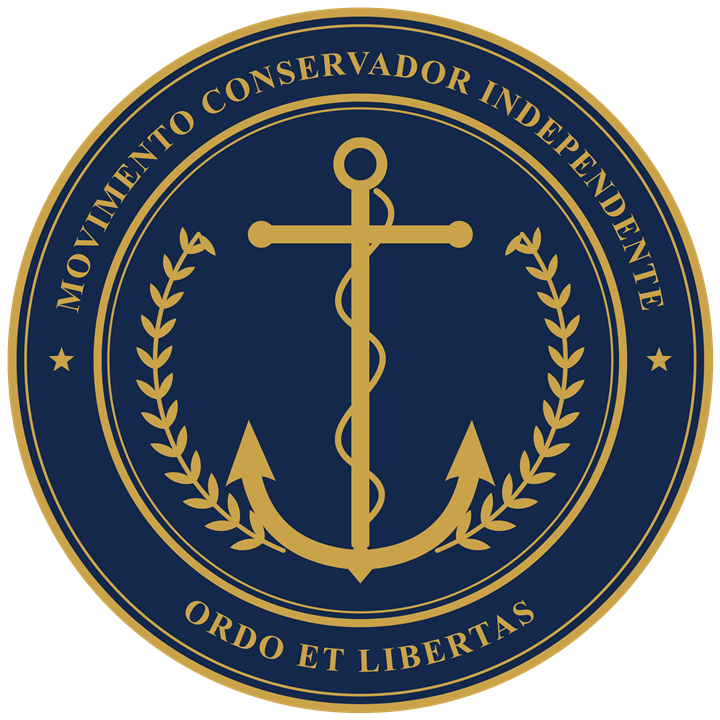
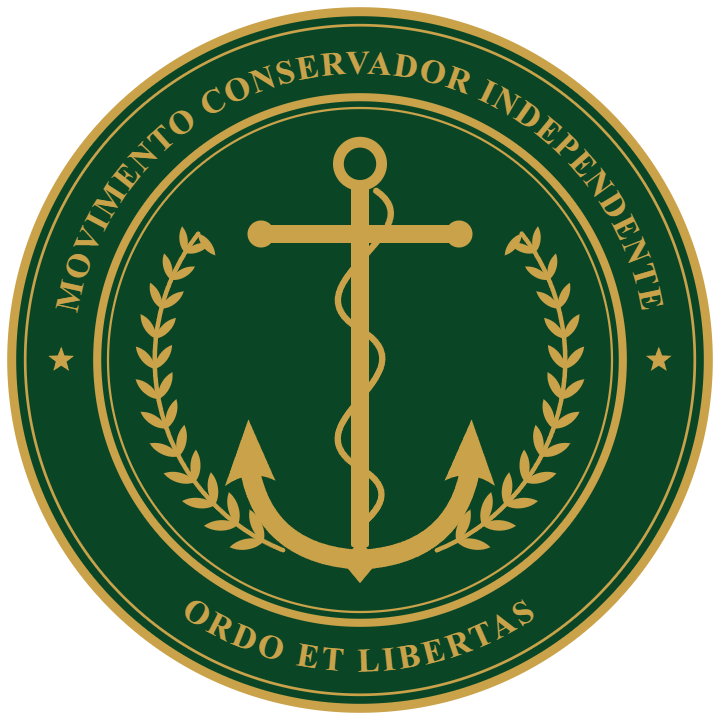
Troca a cor principal de azul-marinho para verde-escuro

diff --git a/index.html b/index.html
@@ -14,13 +14,12 @@
 <link href="https://fonts.googleapis.com/css2?family=Cinzel:wght@600;700&family=Lora:ital,wght@0,400;0,600;1,400&display=swap" rel="stylesheet">
 <style>
   :root {
-    --azul: #12284A;
-    --azul-2: #1A3560;
+    --principal: #0A4626;
+    --principal-2: #0F5A33;
     --ouro: #C8A24A;
     --ouro-escuro: #9C7B2E;
     --marfim: #F3EBD6;
     --marfim-2: #FAF6EC;
-    --verde: #3F5A2C;
     --texto: #1E2533;
     --texto-suave: #4A5468;
     --titulo: 'Cinzel', 'Times New Roman', serif;
@@ -43,7 +42,7 @@
   /* Topo */
   header.topo {
     position: sticky; top: 0; z-index: 10;
-    background: var(--azul);
+    background: var(--principal);
     border-bottom: 2px solid var(--ouro);
   }
   .topo .container { display: flex; align-items: center; justify-content: space-between; gap: 16px; padding: 10px 0; }
@@ -56,7 +55,7 @@
 
   /* Abertura */
   .abertura {
-    background: radial-gradient(ellipse at top, var(--azul-2), var(--azul) 70%);
+    background: radial-gradient(ellipse at top, var(--principal-2), var(--principal) 70%);
     color: var(--marfim);
     text-align: center;
     padding: 56px 0 72px;
@@ -75,7 +74,7 @@
     font-family: var(--titulo); font-weight: 700; letter-spacing: .08em; font-size: 15px;
     padding: 14px 26px; border-radius: 4px; border: 2px solid var(--ouro);
   }
-  .botao.cheio { background: var(--ouro); color: var(--azul); }
+  .botao.cheio { background: var(--ouro); color: var(--principal); }
   .botao.cheio:hover { background: #d9b45c; }
   .botao.vazado { color: var(--ouro); }
   .botao.vazado:hover { background: rgba(200,162,74,.12); }
@@ -84,39 +83,39 @@
   section { padding: 72px 0; }
   .titulo-secao { text-align: center; margin-bottom: 40px; }
   .titulo-secao small { display: block; font-family: var(--titulo); color: var(--ouro-escuro); letter-spacing: .25em; font-size: 13px; margin-bottom: 6px; }
-  .titulo-secao h2 { font-family: var(--titulo); color: var(--azul); font-size: clamp(26px, 4vw, 36px); margin: 0; letter-spacing: .03em; }
+  .titulo-secao h2 { font-family: var(--titulo); color: var(--principal); font-size: clamp(26px, 4vw, 36px); margin: 0; letter-spacing: .03em; }
   .titulo-secao::after { content: ""; display: block; width: 64px; height: 2px; background: var(--ouro); margin: 16px auto 0; }
   .texto-central { max-width: 720px; margin-inline: auto; }
   .texto-central p { margin: 0 0 18px; }
-  .destaque { font-size: 21px; color: var(--azul); font-style: italic; text-align: center; margin: 28px auto 0; max-width: 640px; }
+  .destaque { font-size: 21px; color: var(--principal); font-style: italic; text-align: center; margin: 28px auto 0; max-width: 640px; }
 
   /* Ordo et Libertas */
   .fundo-marfim { background: var(--marfim); }
   .duas-colunas { display: grid; grid-template-columns: 1fr 1fr; gap: 28px; }
   .coluna {
-    background: #fff; border: 1px solid rgba(200,162,74,.45); border-top: 4px solid var(--azul);
+    background: #fff; border: 1px solid rgba(200,162,74,.45); border-top: 4px solid var(--principal);
     padding: 28px 28px 20px; border-radius: 4px;
   }
   .coluna.liberdade { border-top-color: var(--ouro); }
-  .coluna h3 { font-family: var(--titulo); color: var(--azul); margin: 0 0 4px; font-size: 24px; letter-spacing: .06em; }
+  .coluna h3 { font-family: var(--titulo); color: var(--principal); margin: 0 0 4px; font-size: 24px; letter-spacing: .06em; }
   .coluna .latim { color: var(--ouro-escuro); font-style: italic; margin: 0 0 14px; font-size: 16px; }
   .coluna ul { margin: 0; padding-left: 20px; }
   .coluna li { margin-bottom: 8px; }
 
   /* Posições */
   .cartoes { display: grid; grid-template-columns: repeat(3, 1fr); gap: 20px; }
-  .cartao { background: #fff; padding: 24px; border-left: 3px solid var(--ouro); border-radius: 3px; box-shadow: 0 2px 10px rgba(18,40,74,.06); }
-  .cartao h3 { font-family: var(--titulo); color: var(--azul); font-size: 18px; margin: 0 0 8px; letter-spacing: .04em; }
+  .cartao { background: #fff; padding: 24px; border-left: 3px solid var(--ouro); border-radius: 3px; box-shadow: 0 2px 10px rgba(10,70,38,.06); }
+  .cartao h3 { font-family: var(--titulo); color: var(--principal); font-size: 18px; margin: 0 0 8px; letter-spacing: .04em; }
   .cartao p { margin: 0; font-size: 16px; color: var(--texto-suave); }
   .rejeitamos {
-    margin-top: 36px; background: var(--azul); color: var(--marfim);
+    margin-top: 36px; background: var(--principal); color: var(--marfim);
     padding: 26px 28px; border-radius: 4px; text-align: center;
   }
   .rejeitamos h3 { font-family: var(--titulo); color: var(--ouro); margin: 0 0 8px; font-size: 18px; letter-spacing: .1em; }
   .rejeitamos p { margin: 0; }
 
   /* Ruas seguras */
-  .cidade { background: var(--azul); color: var(--marfim); }
+  .cidade { background: var(--principal); color: var(--marfim); }
   .cidade .titulo-secao h2 { color: var(--marfim); }
   .cidade .titulo-secao small { color: var(--ouro); }
   .tres { display: grid; grid-template-columns: repeat(3, 1fr); gap: 20px; margin-top: 8px; }
@@ -128,20 +127,20 @@
   /* Clube de leitura */
   .livros { display: grid; grid-template-columns: repeat(3, 1fr); gap: 14px; max-width: 840px; margin: 28px auto 0; padding: 0; list-style: none; }
   .livros li { background: #fff; border: 1px solid rgba(200,162,74,.45); padding: 14px 16px; border-radius: 3px; font-size: 16px; }
-  .livros strong { display: block; color: var(--azul); }
+  .livros strong { display: block; color: var(--principal); }
 
   /* Participe */
   .participe { text-align: center; }
   .passos { list-style: none; counter-reset: passo; display: grid; grid-template-columns: repeat(3, 1fr); gap: 20px; max-width: 840px; margin: 32px auto 0; padding: 0; text-align: left; }
   .passos li { counter-increment: passo; background: #fff; border: 1px solid rgba(200,162,74,.45); border-radius: 4px; padding: 22px 20px 20px; font-size: 16px; color: var(--texto-suave); }
-  .passos li::before { content: counter(passo); display: flex; align-items: center; justify-content: center; width: 34px; height: 34px; border-radius: 50%; background: var(--azul); color: var(--ouro); font-family: var(--titulo); font-weight: 700; margin-bottom: 10px; }
-  .passos strong { display: block; font-family: var(--titulo); color: var(--azul); font-size: 17px; letter-spacing: .04em; margin-bottom: 4px; }
-  .participe .aviso { font-weight: 600; color: var(--azul); margin: 28px 0 24px; }
-  .participe .botao.cheio { border-color: var(--azul); background: var(--azul); color: var(--ouro); }
+  .passos li::before { content: counter(passo); display: flex; align-items: center; justify-content: center; width: 34px; height: 34px; border-radius: 50%; background: var(--principal); color: var(--ouro); font-family: var(--titulo); font-weight: 700; margin-bottom: 10px; }
+  .passos strong { display: block; font-family: var(--titulo); color: var(--principal); font-size: 17px; letter-spacing: .04em; margin-bottom: 4px; }
+  .participe .aviso { font-weight: 600; color: var(--principal); margin: 28px 0 24px; }
+  .participe .botao.cheio { border-color: var(--principal); background: var(--principal); color: var(--ouro); }
   .participe .botao.desativado { opacity: .55; cursor: default; }
 
   /* Rodapé */
-  footer { background: var(--azul); color: var(--marfim); text-align: center; padding: 40px 0 32px; border-top: 3px solid var(--ouro); }
+  footer { background: var(--principal); color: var(--marfim); text-align: center; padding: 40px 0 32px; border-top: 3px solid var(--ouro); }
   footer img { width: 72px; margin: 0 auto 14px; }
   footer .lema { margin-bottom: 8px; }
   footer p { margin: 4px 0; font-size: 15px; opacity: .85; }
@@ -178,7 +177,7 @@
 <main>
   <div class="abertura" id="inicio">
     <div class="container">
-      <img class="selo" src="img/selo-mci.png" alt="Selo do Movimento Conservador Independente: âncora dourada com louros, sobre fundo azul-marinho">
+      <img class="selo" src="img/selo-mci.png" alt="Selo do Movimento Conservador Independente: âncora dourada com louros, sobre fundo verde-escuro">
       <h1>Movimento Conservador Independente</h1>
       <p class="lema">ORDO ET LIBERTAS</p>
       <p class="chamada">Somos sobre ideias, não sobre políticos. Um movimento liberal-conservador brasileiro.</p>
